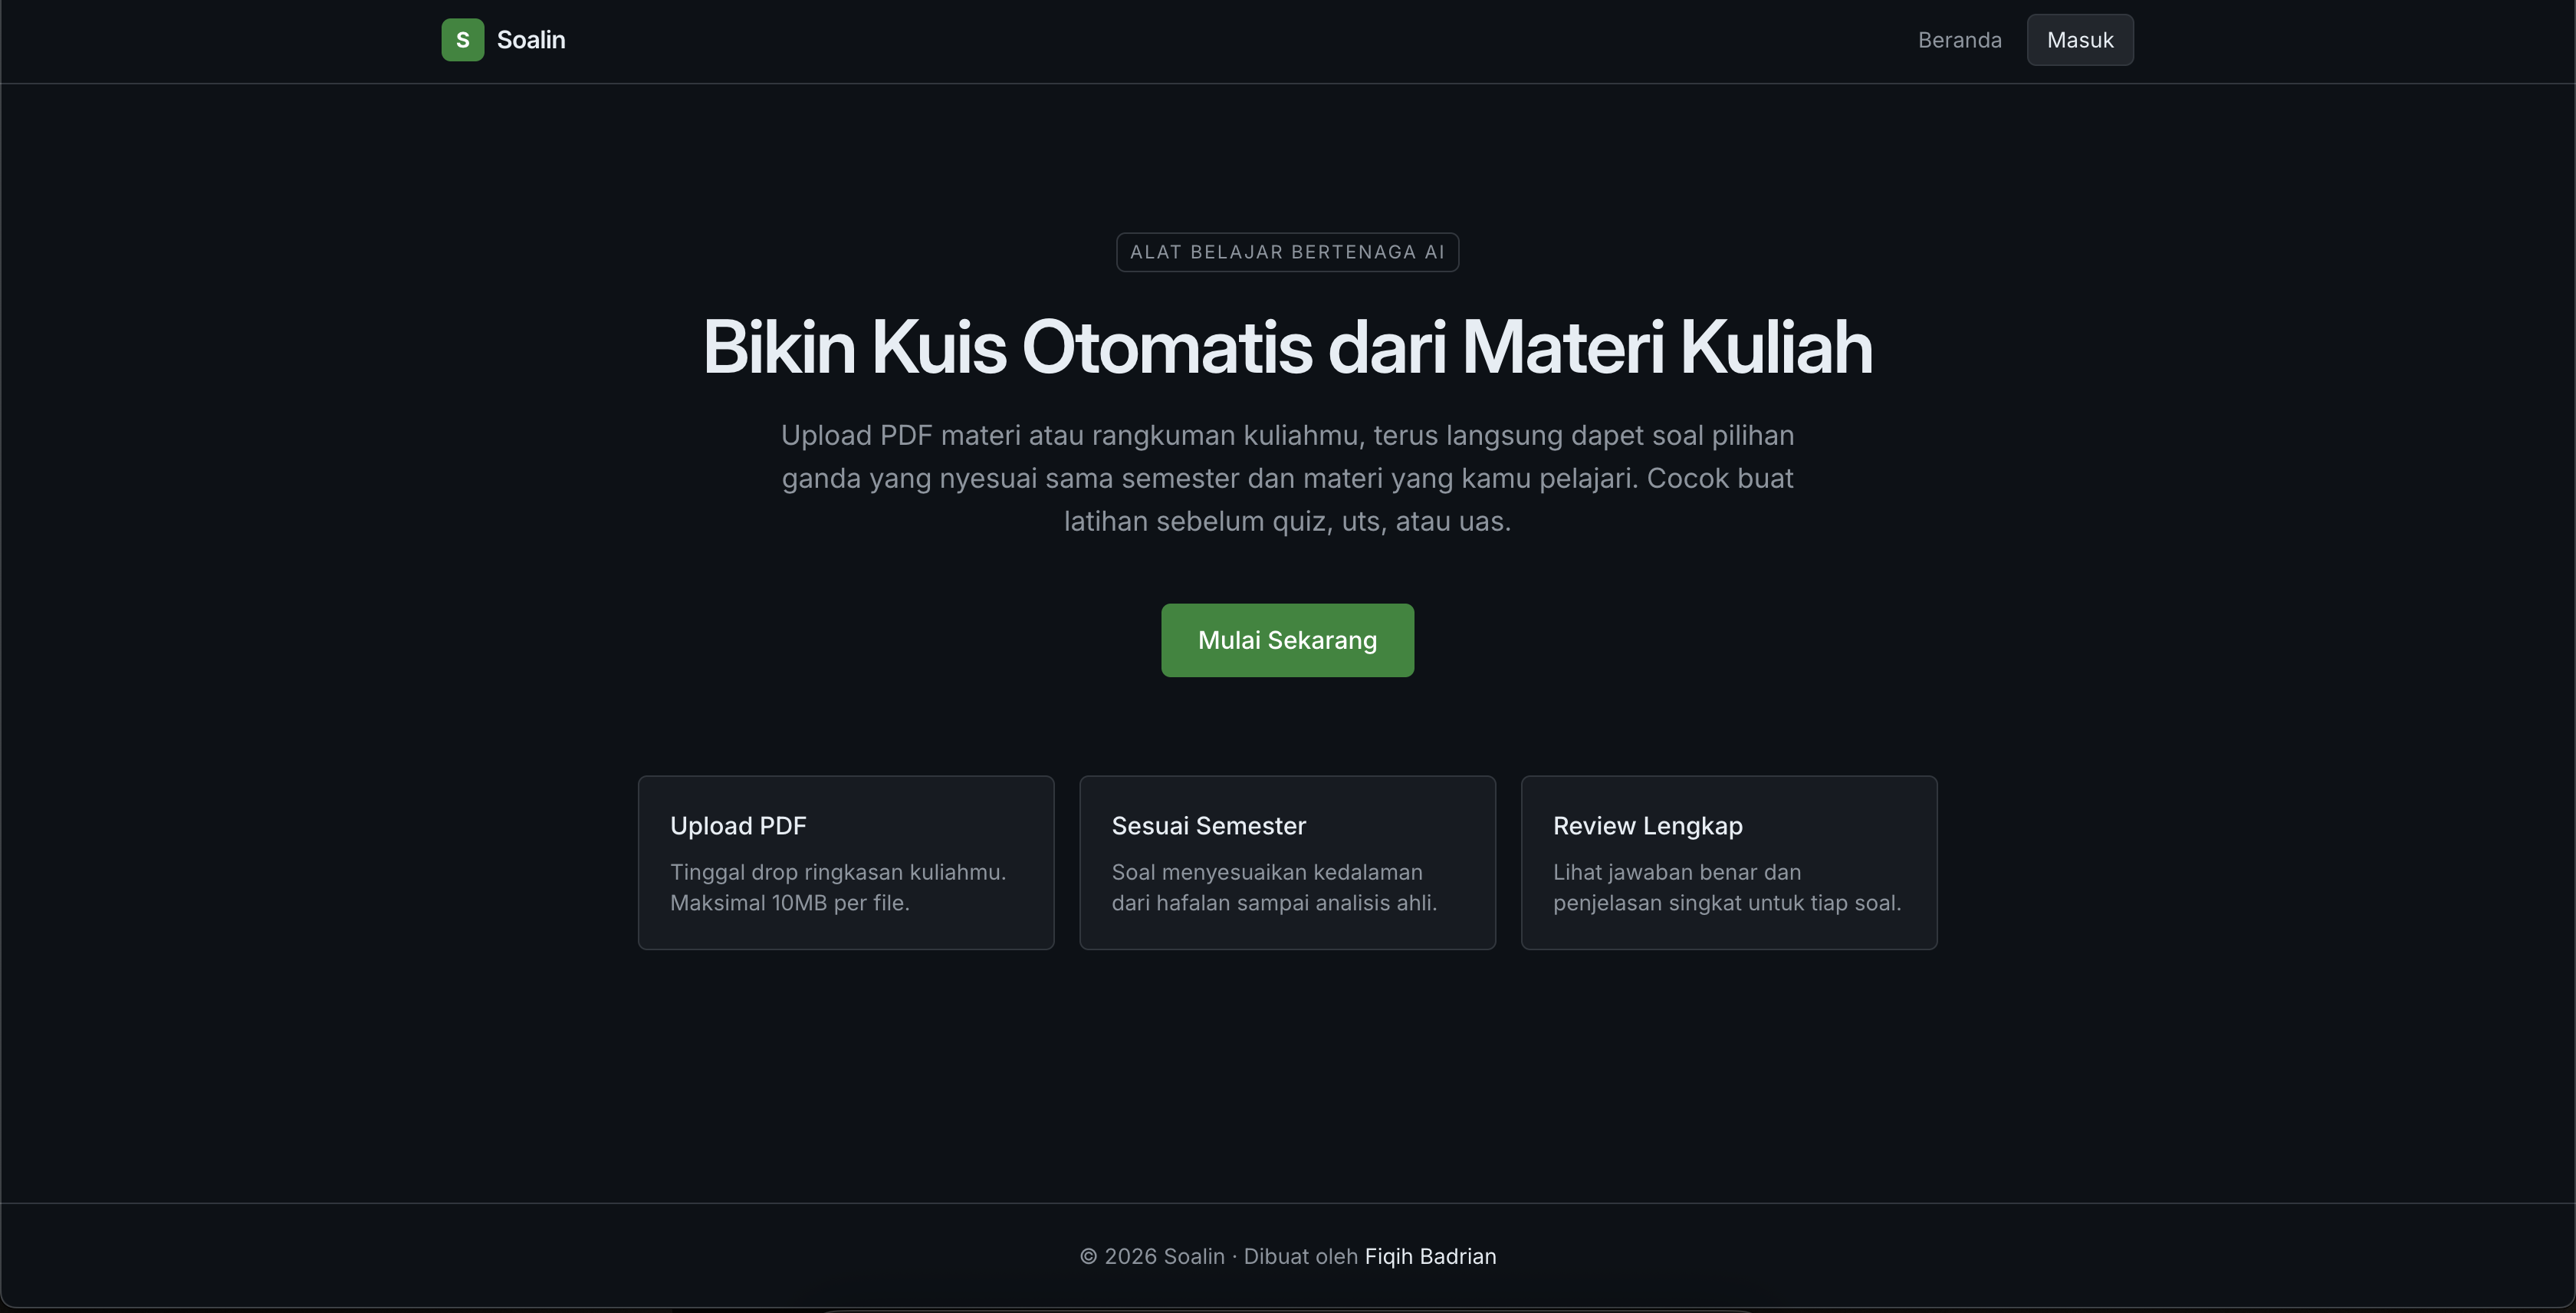
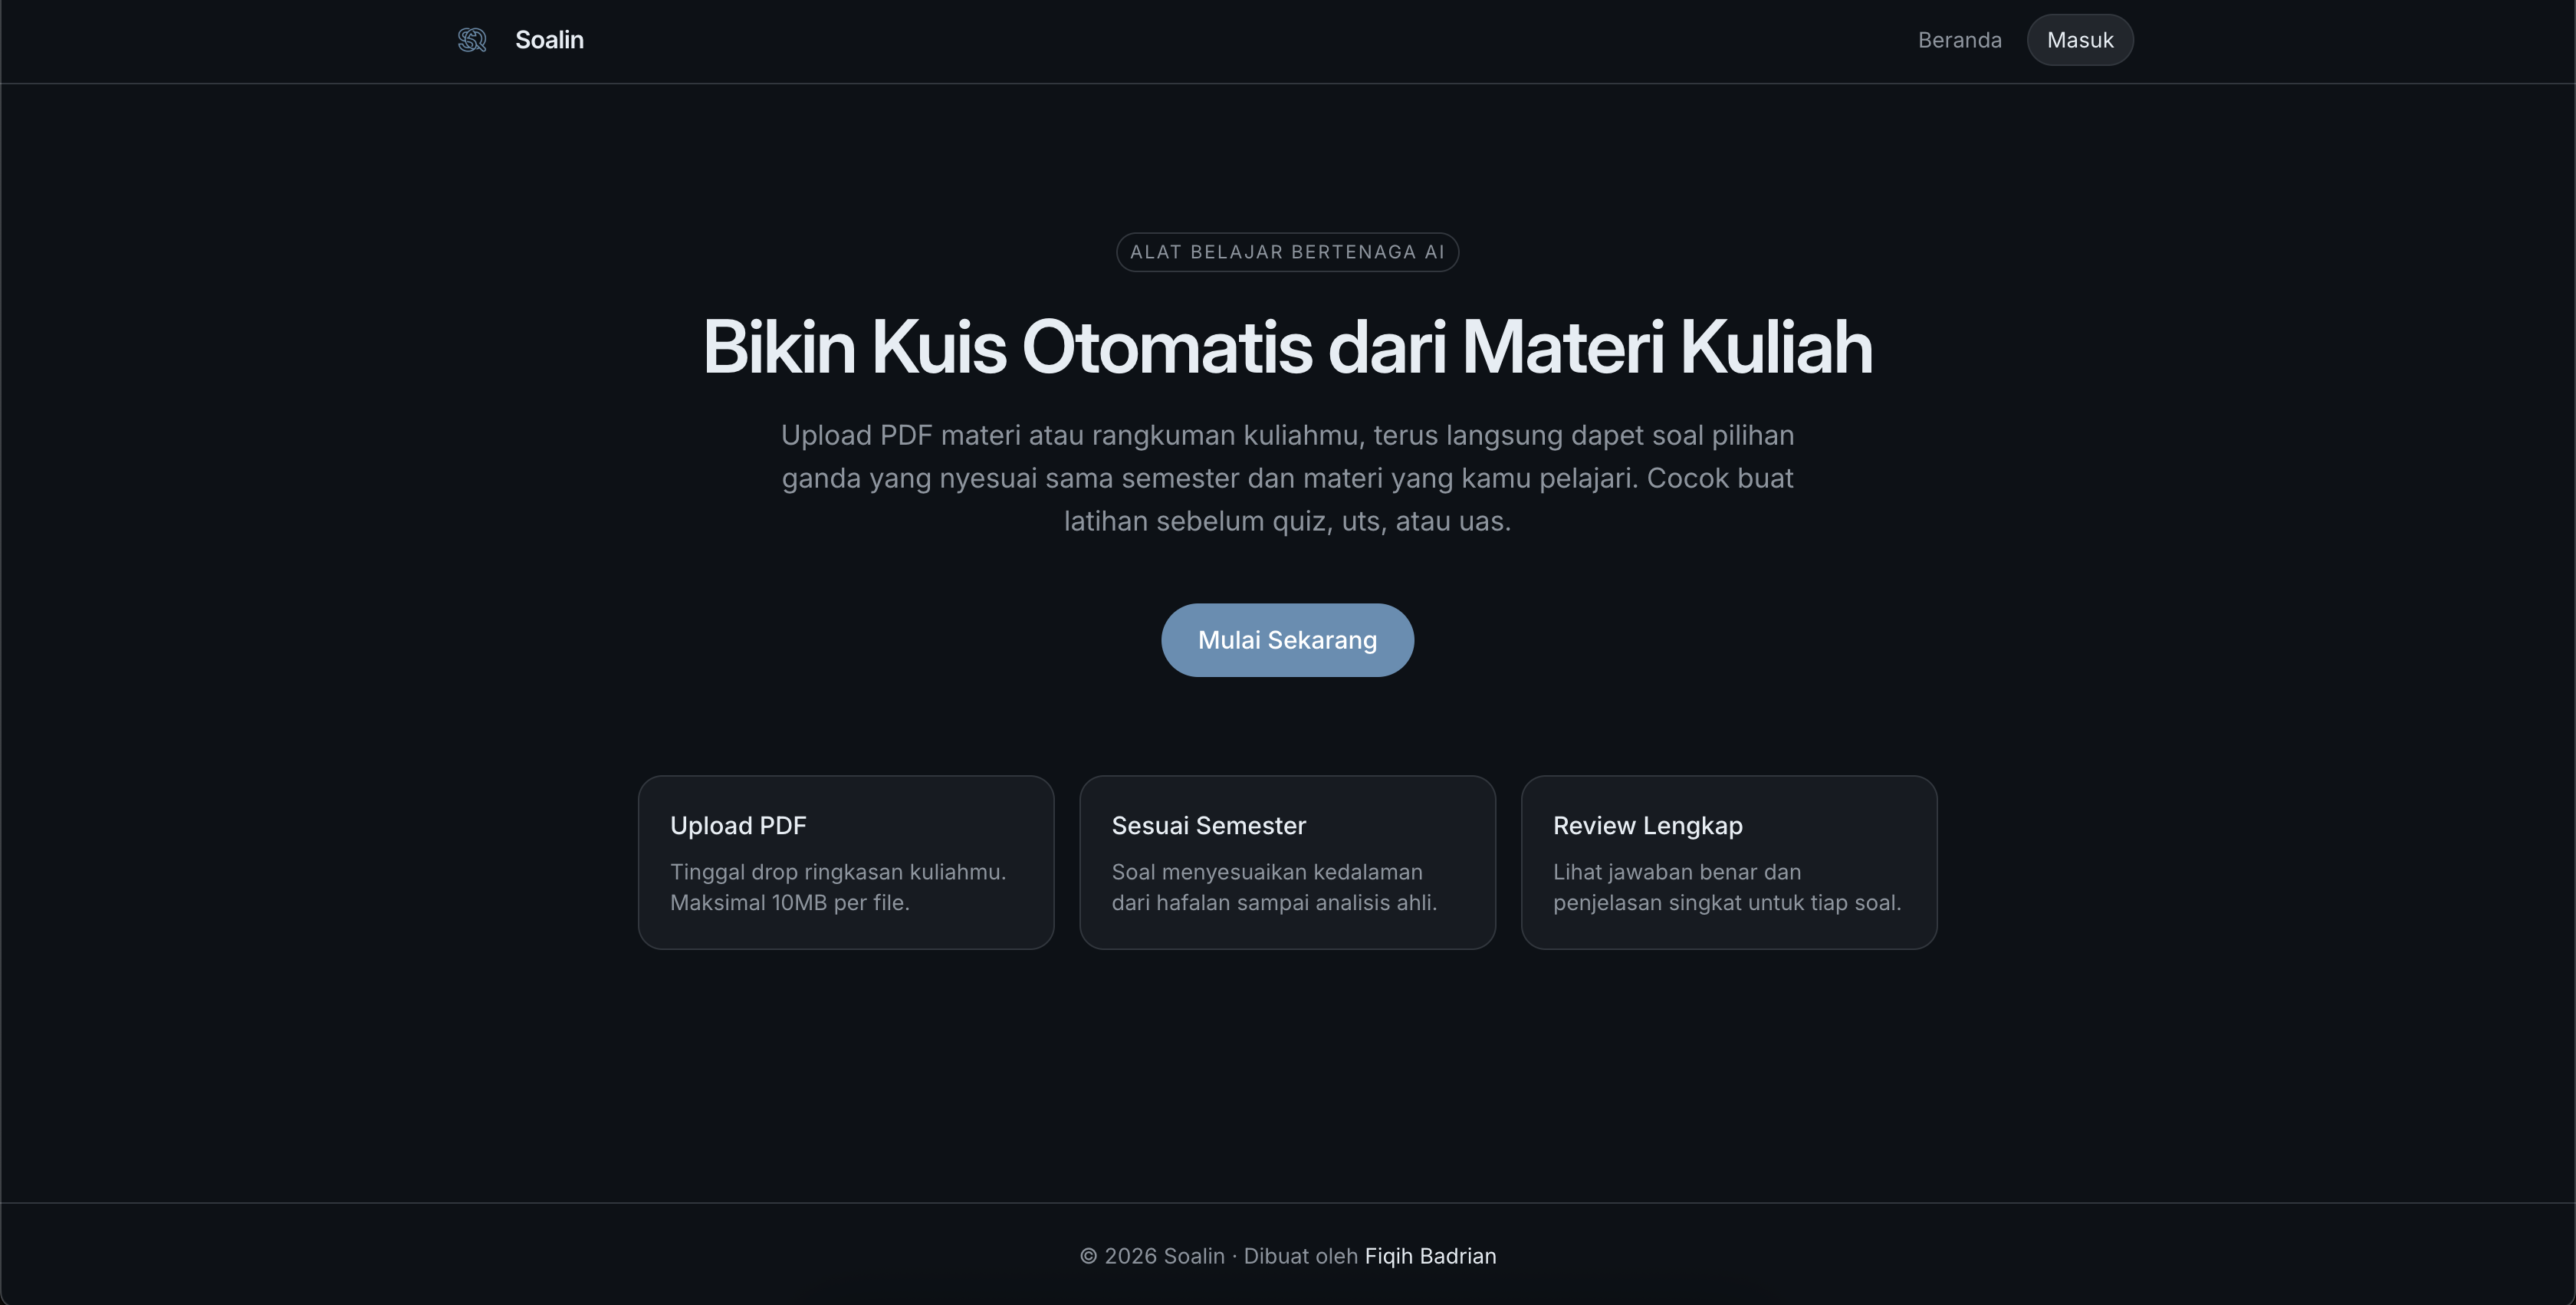
-

diff --git a/README.md b/README.md
@@ -73,6 +73,7 @@ Project by Fiqih Badrian
 
 
 ## Live Preview (Gambar)
-    
-![Soalin Desktop Preview](images/dekstop.png)
 
+![Soalin Desktop Preview](images/dekstop.png)
+![login](images/login.png)
+![upload](images/upload.png)